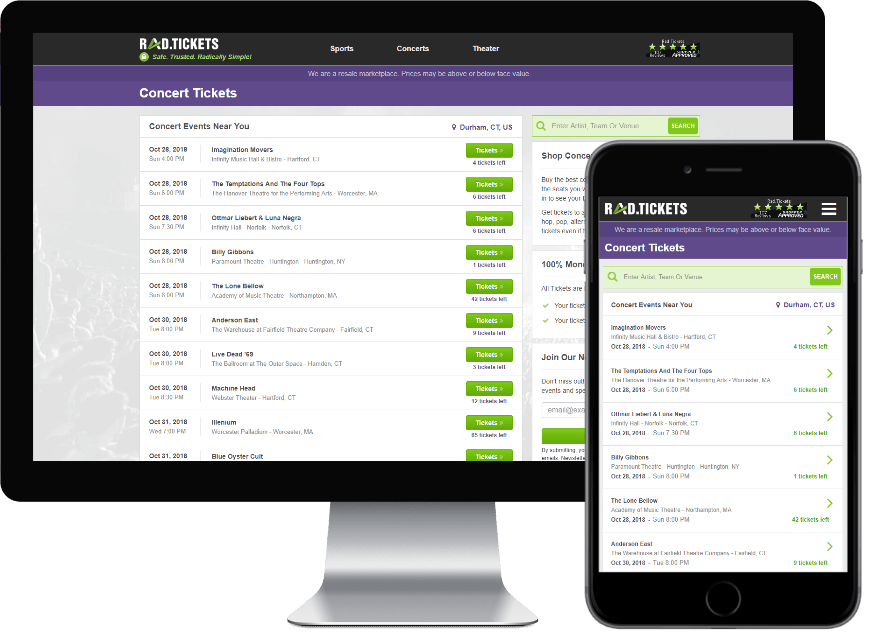
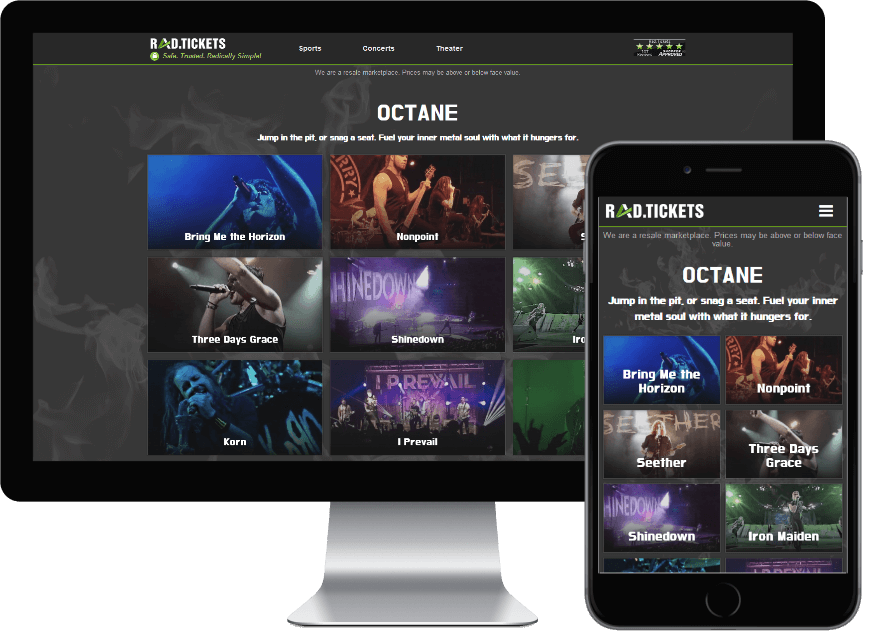
updated images

diff --git a/index.html b/index.html
@@ -200,10 +200,10 @@
                                             <p class='project-date'>2017</p>
                                             <div class='project-desc'>
                                                 <p>
-                                                    Our CTO commissioned this site with the intention that it be run by our engineering department. The idea was to have a friendly competition with the business side of the company that runs our internal sites.
+                                                    
                                                 </p>
                                             </div>
-                                            <a class='tile-link btn' target='_blank' href='https://www.rad.tickets/concerts'>View Site</a>
+                                            <a class='tile-link btn' target='_blank' href='https://octane.rad.tickets'>View Site</a>
                                         </div>
                                     </article>
                                 </li>
